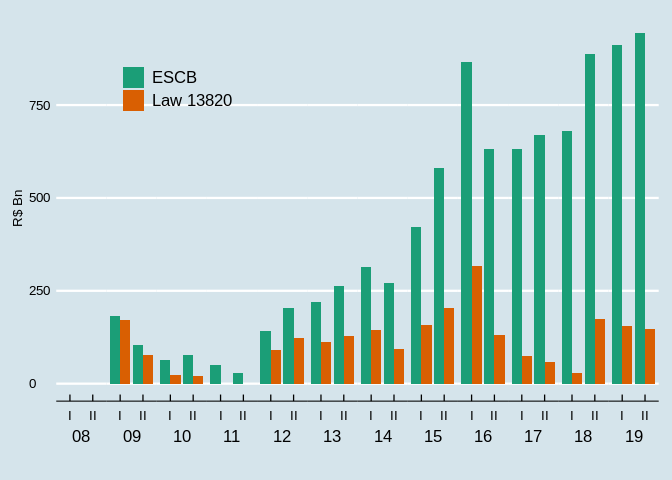
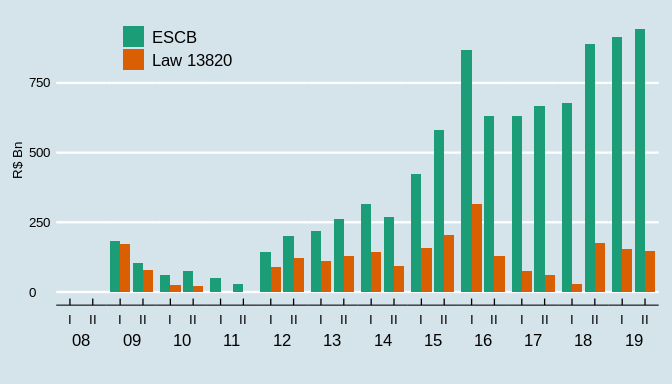
figures width and heigth

diff --git a/figure5_res_swaps.md b/figure5_res_swaps.md
@@ -345,14 +345,14 @@ We can now switch back to R to finish the
 library(tidyverse)
 ```
 
-    ## ── Attaching packages ─────────────────────────────────────── tidyverse 1.3.0 ──
+    ## ── Attaching packages ──────────────────────────────────────────────────────────────────────────────────────────────────── tidyverse 1.3.0 ──
 
     ## ✓ ggplot2 3.2.1     ✓ purrr   0.3.3
     ## ✓ tibble  2.1.3     ✓ dplyr   0.8.3
     ## ✓ tidyr   1.0.0     ✓ stringr 1.4.0
     ## ✓ readr   1.3.1     ✓ forcats 0.4.0
 
-    ## ── Conflicts ────────────────────────────────────────── tidyverse_conflicts() ──
+    ## ── Conflicts ─────────────────────────────────────────────────────────────────────────────────────────────────────── tidyverse_conflicts() ──
     ## x dplyr::filter() masks stats::filter()
     ## x dplyr::lag()    masks stats::lag()
 
@@ -390,7 +390,7 @@ ifs_getQ <- function(id, country = list_em2, start = 2000) {
 res_br <- ifs_getQ('RAFA_USD', 'BR', 2004) %>% select(date, res = value)
 ```
 
-    ##   |                                                                              |                                                                      |   0%  |                                                                              |===============                                                       |  21%  |                                                                              |======================================                                |  54%  |                                                                              |==============================================                        |  66%  |                                                                              |===================================================================== |  98%  |                                                                              |======================================================================| 100%
+    ##   |                                                                              |                                                                      |   0%  |                                                                              |===============                                                       |  21%  |                                                                              |======================================                                |  54%  |                                                                              |=============================================================         |  87%  |                                                                              |======================================================================| 100%
 
 We will use the exchange rate from the BCB, code 1, retrieved using the
 `BETS` package. We are going to convert the stocks by the exchange rate

diff --git a/figure2_cpi.md b/figure2_cpi.md
@@ -18,14 +18,14 @@ are used extensively for cleaning the
 library(tidyverse)
 ```
 
-    ## ── Attaching packages ────────────────────────────────────────────────────────────────────────────────────────────────────────────── tidyverse 1.3.0 ──
+    ## ── Attaching packages ──────────────────────────────────────────────────────────────────────────────────────────────────── tidyverse 1.3.0 ──
 
     ## ✓ ggplot2 3.2.1     ✓ purrr   0.3.3
     ## ✓ tibble  2.1.3     ✓ dplyr   0.8.3
     ## ✓ tidyr   1.0.0     ✓ stringr 1.4.0
     ## ✓ readr   1.3.1     ✓ forcats 0.4.0
 
-    ## ── Conflicts ───────────────────────────────────────────────────────────────────────────────────────────────────────────────── tidyverse_conflicts() ──
+    ## ── Conflicts ─────────────────────────────────────────────────────────────────────────────────────────────────────── tidyverse_conflicts() ──
     ## x dplyr::filter() masks stats::filter()
     ## x dplyr::lag()    masks stats::lag()
 
@@ -113,11 +113,11 @@ cpi_nies %>%
     ##  3 AE       13
     ##  4 IR       13
     ##  5 BD       14
-    ##  6 EG       14
-    ##  7 IN       14
-    ##  8 KW       14
-    ##  9 MA       14
-    ## 10 MY       14
+    ##  6 IN       14
+    ##  7 KW       14
+    ##  8 MA       14
+    ##  9 MY       14
+    ## 10 OM       14
     ## # … with 27 more rows
 
 Argentina is missing completely and there is not enough data about
@@ -350,4 +350,4 @@ ggplot(cpi_consolidated, aes(x=date)) +
   labs(x='', y = 'Consumer price index (2005 = 100)')
 ```
 
-![](cpi_files/figure-gfm/unnamed-chunk-22-1.png)<!-- -->
+![](figure2_cpi_files/figure-gfm/unnamed-chunk-22-1.png)<!-- -->

diff --git a/figure4_exr_gdp.md b/figure4_exr_gdp.md
@@ -16,14 +16,14 @@ Load `tidyverse` and
 library(tidyverse)
 ```
 
-    ## ── Attaching packages ───────────────────────────────────────────────────────────────────────────────── tidyverse 1.3.0 ──
+    ## ── Attaching packages ──────────────────────────────────────────────────────────────────────────────────────────────────── tidyverse 1.3.0 ──
 
     ## ✓ ggplot2 3.2.1     ✓ purrr   0.3.3
     ## ✓ tibble  2.1.3     ✓ dplyr   0.8.3
     ## ✓ tidyr   1.0.0     ✓ stringr 1.4.0
     ## ✓ readr   1.3.1     ✓ forcats 0.4.0
 
-    ## ── Conflicts ──────────────────────────────────────────────────────────────────────────────────── tidyverse_conflicts() ──
+    ## ── Conflicts ─────────────────────────────────────────────────────────────────────────────────────────────────────── tidyverse_conflicts() ──
     ## x dplyr::filter() masks stats::filter()
     ## x dplyr::lag()    masks stats::lag()
 
@@ -84,8 +84,8 @@ context_vars %>%
   facet_wrap(~key, nrow =  2, scales = 'free') +
   ggthemes::theme_economist() +
   theme(legend.position = 'none') +
-  labs(x = '', y = '', caption = 'Sources: IMF-IFS and WB') +
+  labs(x = '', y = '') +
   scale_x_date(breaks = '2 years', date_labels = '%Y')
 ```
 
-![](context_files/figure-gfm/unnamed-chunk-5-1.png)<!-- -->
+![](figure4_exr_gdp_files/figure-gfm/unnamed-chunk-5-1.png)<!-- -->

diff --git a/fig789_simulations.md b/fig789_simulations.md
@@ -424,14 +424,14 @@ Switch to R to plot the main
 library(tidyverse)
 ```
 
-    ## ── Attaching packages ─────────────────────────────────────── tidyverse 1.3.0 ──
+    ## ── Attaching packages ──────────────────────────────────────────────────────────────────────────────────────────────────── tidyverse 1.3.0 ──
 
     ## ✓ ggplot2 3.2.1     ✓ purrr   0.3.3
     ## ✓ tibble  2.1.3     ✓ dplyr   0.8.3
     ## ✓ tidyr   1.0.0     ✓ stringr 1.4.0
     ## ✓ readr   1.3.1     ✓ forcats 0.4.0
 
-    ## ── Conflicts ────────────────────────────────────────── tidyverse_conflicts() ──
+    ## ── Conflicts ─────────────────────────────────────────────────────────────────────────────────────────────────────── tidyverse_conflicts() ──
     ## x dplyr::filter() masks stats::filter()
     ## x dplyr::lag()    masks stats::lag()
 
@@ -512,7 +512,7 @@ rev_df1 %>%
   ggthemes::theme_economist() +
   theme(panel.spacing = unit(0, 'lines'),
         strip.placement = "outside",
-        legend.position = c(0.2, 0.82),
+        legend.position = c(0.2, 0.9),
         legend.title = element_blank()) +
   labs(x = '', y = 'R$ Bn') +
   scale_fill_brewer(palette = 'Dark2', labels = c('ESCB', 'Law 13820'))
